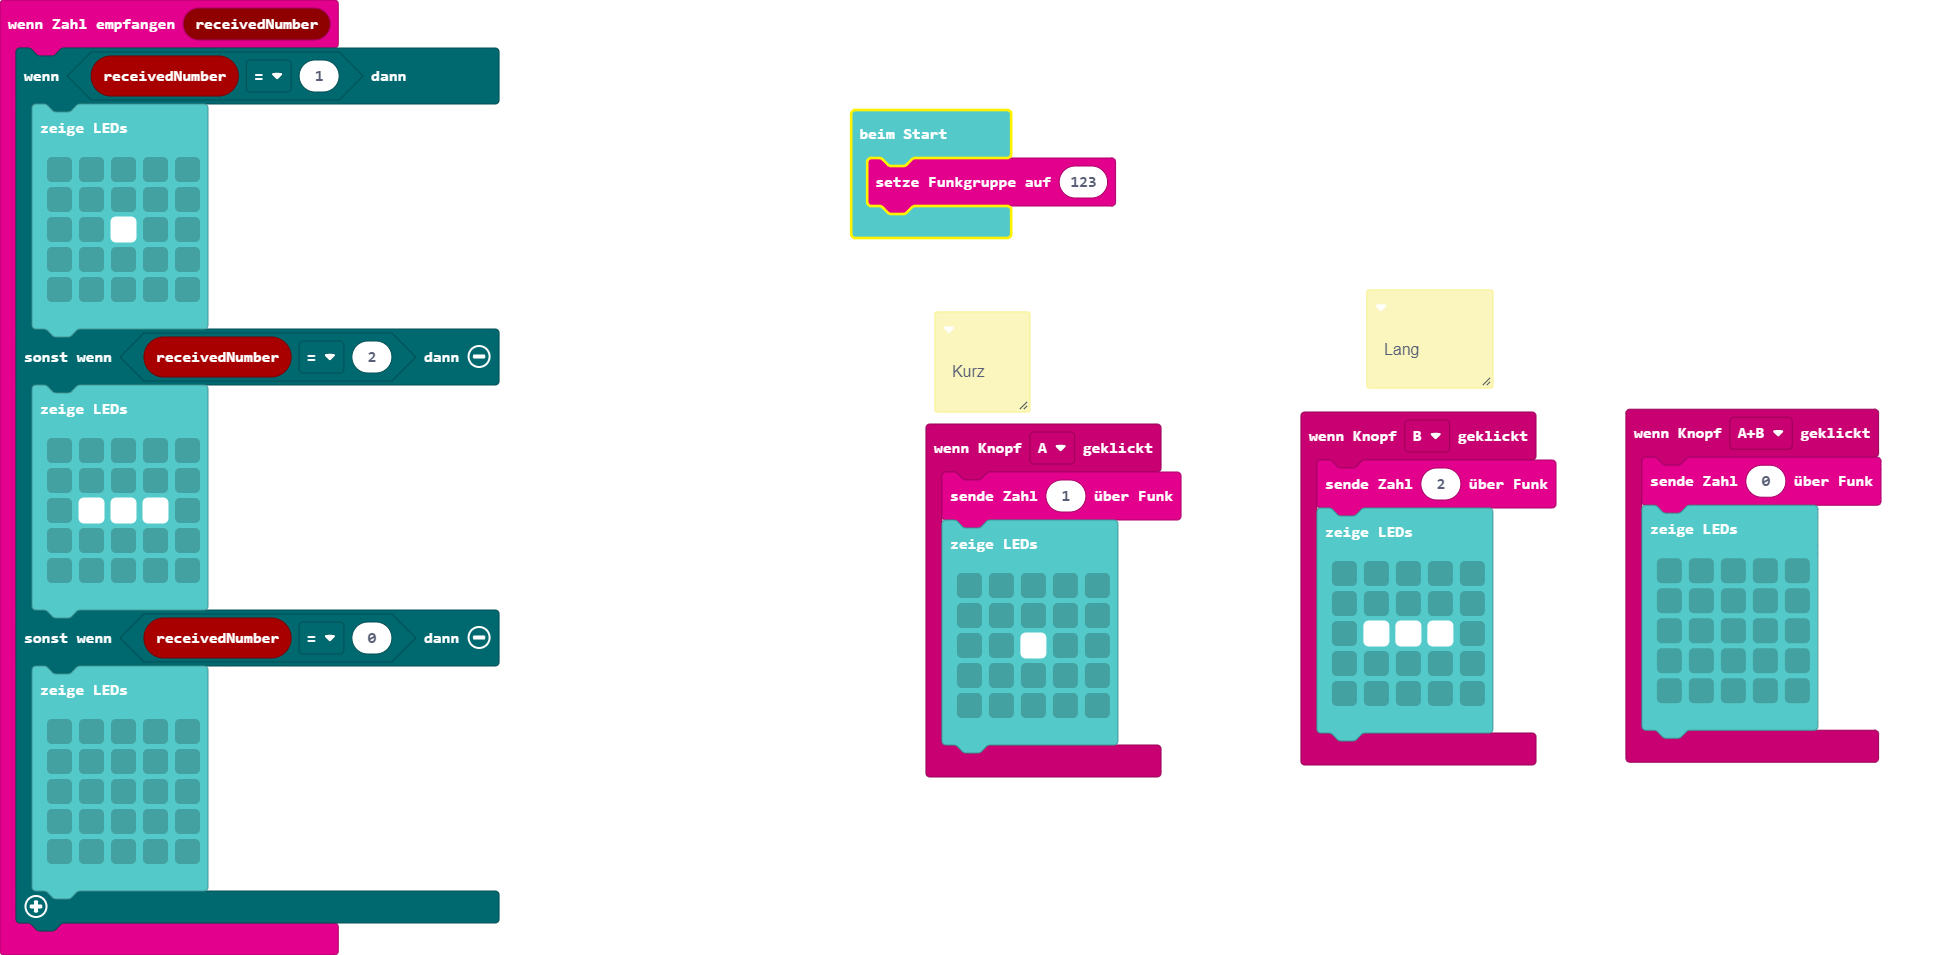
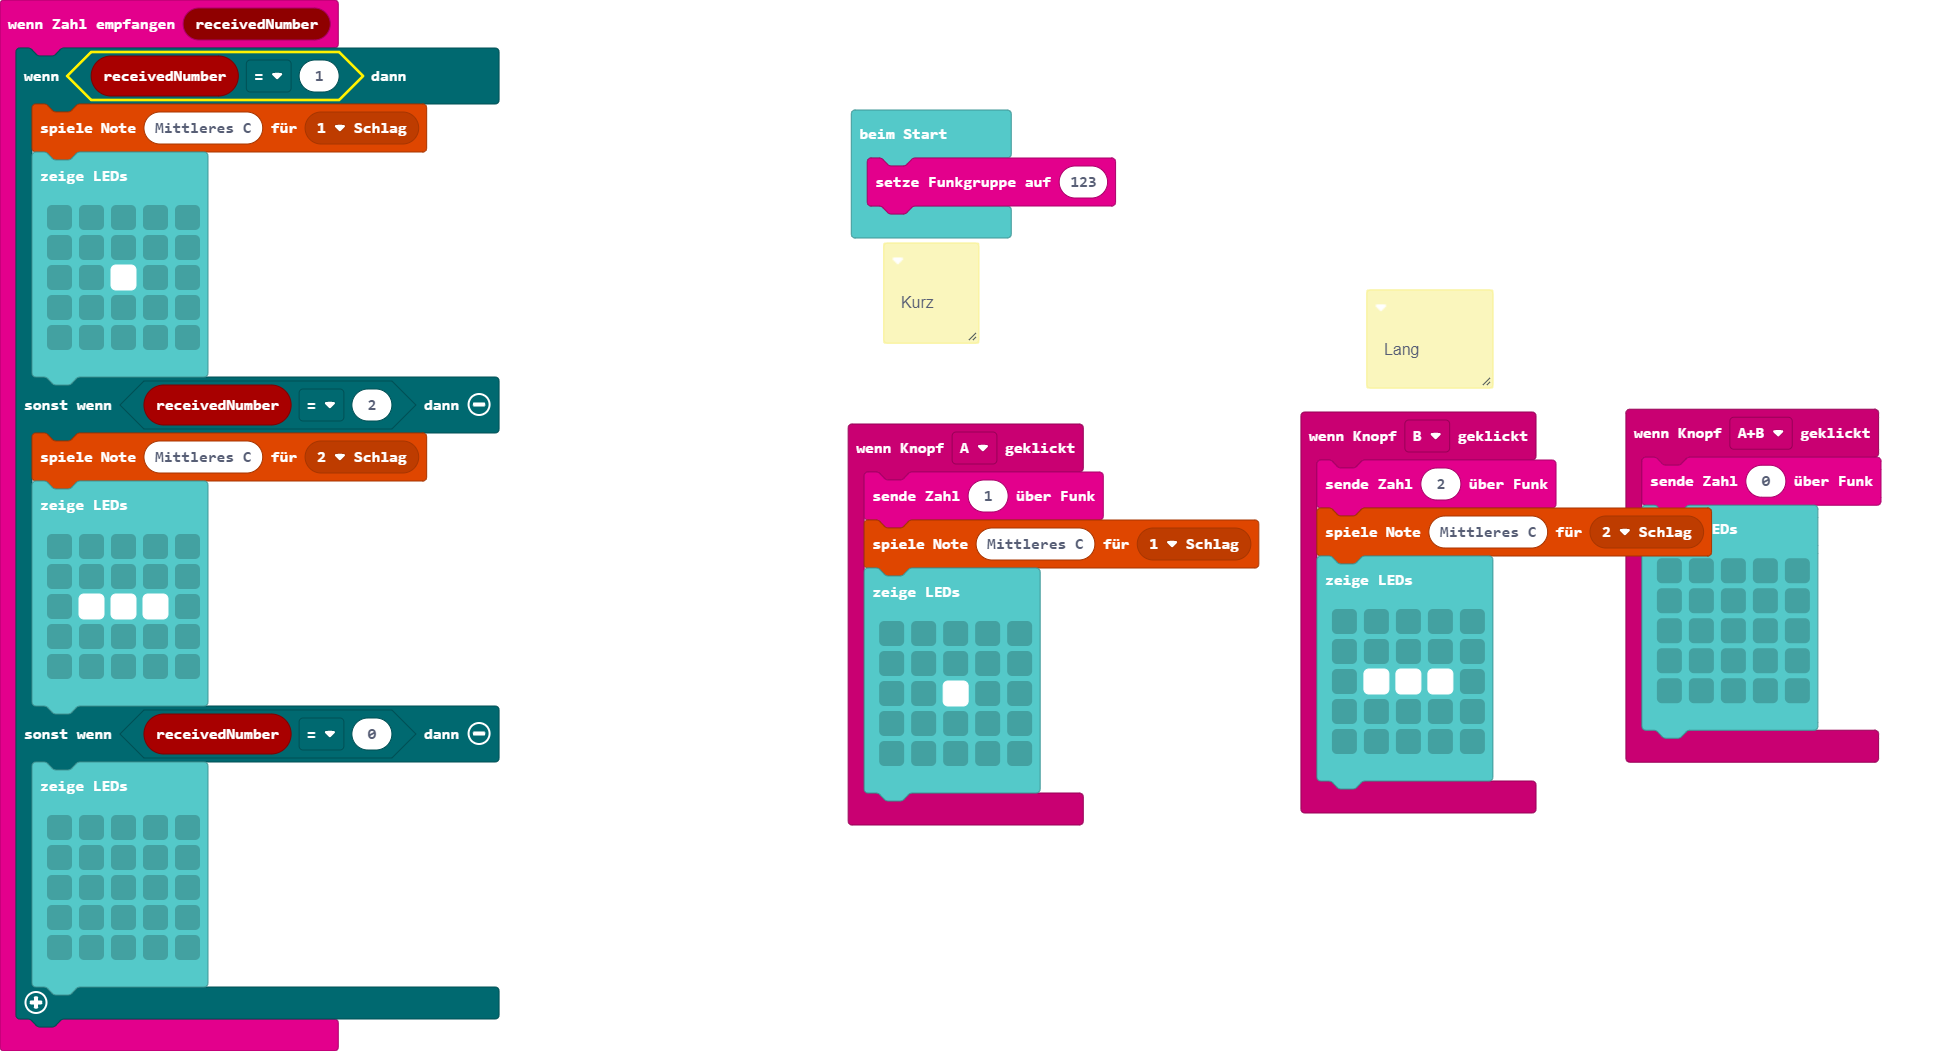
Aktualisiere main.blocks, main.ts

diff --git a/main.ts b/main.ts
@@ -3,6 +3,7 @@
  */
 radio.onReceivedNumber(function (receivedNumber) {
     if (receivedNumber == 1) {
+        music.playTone(262, music.beat(BeatFraction.Whole))
         basic.showLeds(`
             . . . . .
             . . . . .
@@ -11,6 +12,7 @@ radio.onReceivedNumber(function (receivedNumber) {
             . . . . .
             `)
     } else if (receivedNumber == 2) {
+        music.playTone(262, music.beat(BeatFraction.Double))
         basic.showLeds(`
             . . . . .
             . . . . .
@@ -28,11 +30,9 @@ radio.onReceivedNumber(function (receivedNumber) {
             `)
     }
 })
-/**
- * Kurz
- */
 input.onButtonPressed(Button.A, function () {
     radio.sendNumber(1)
+    music.playTone(262, music.beat(BeatFraction.Whole))
     basic.showLeds(`
         . . . . .
         . . . . .
@@ -53,6 +53,7 @@ input.onButtonPressed(Button.AB, function () {
 })
 input.onButtonPressed(Button.B, function () {
     radio.sendNumber(2)
+    music.playTone(262, music.beat(BeatFraction.Double))
     basic.showLeds(`
         . . . . .
         . . . . .
@@ -61,4 +62,7 @@ input.onButtonPressed(Button.B, function () {
         . . . . .
         `)
 })
+/**
+ * Kurz
+ */
 radio.setGroup(123)
